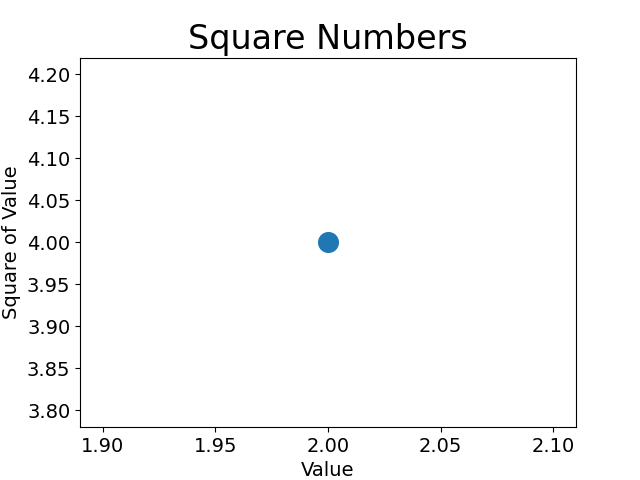
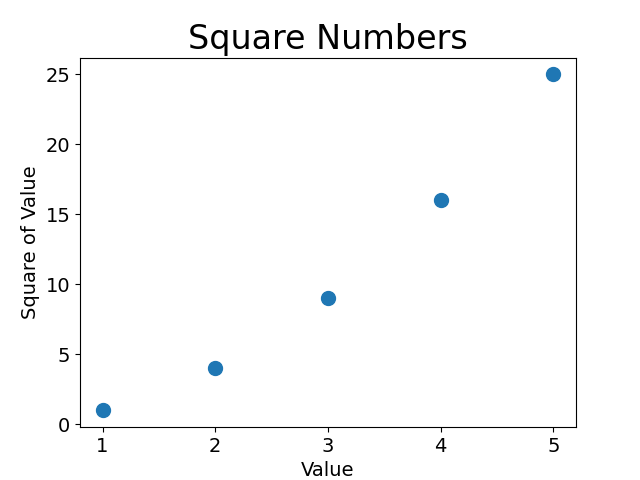
added lists with multiple values to the input of scatter function

diff --git a/scatter_squares.py b/scatter_squares.py
@@ -1,6 +1,10 @@
 import matplotlib.pyplot as plt
 
-plt.scatter(2, 4, s=200)
+xValues = [1, 2, 3, 4, 5]
+yValues = [1, 4, 9, 16, 25]
+
+
+plt.scatter(xValues, yValues, s=100)
 
 #Set the chart title and label axes
 plt.title("Square Numbers", fontsize=24)
